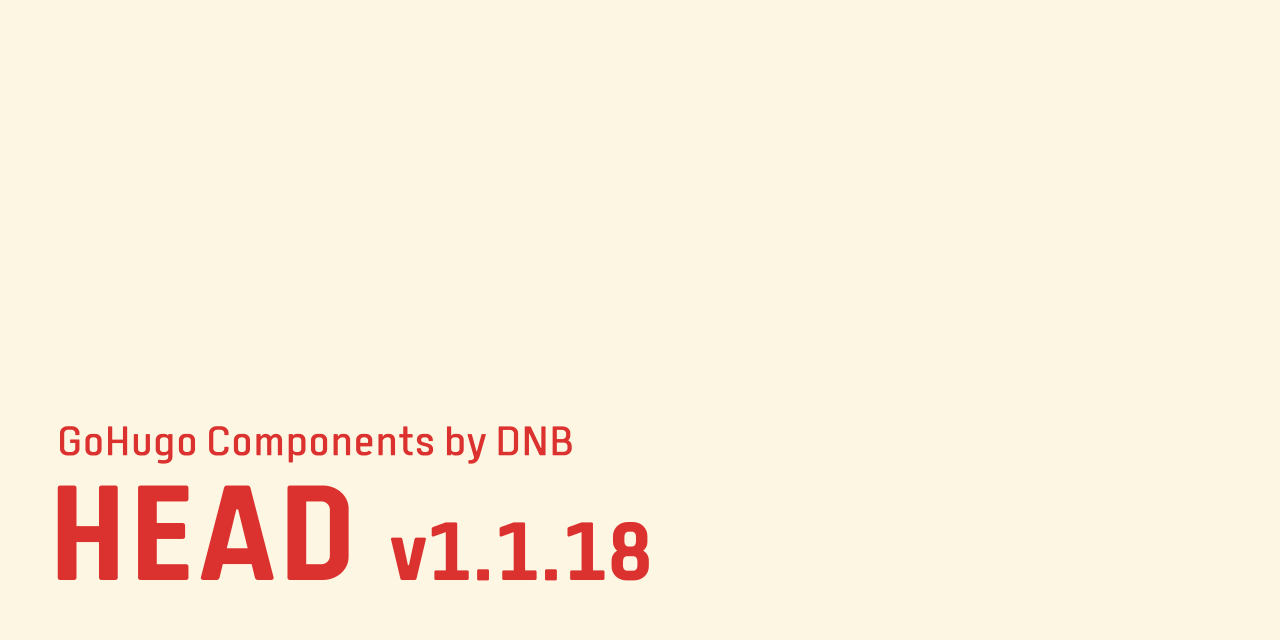
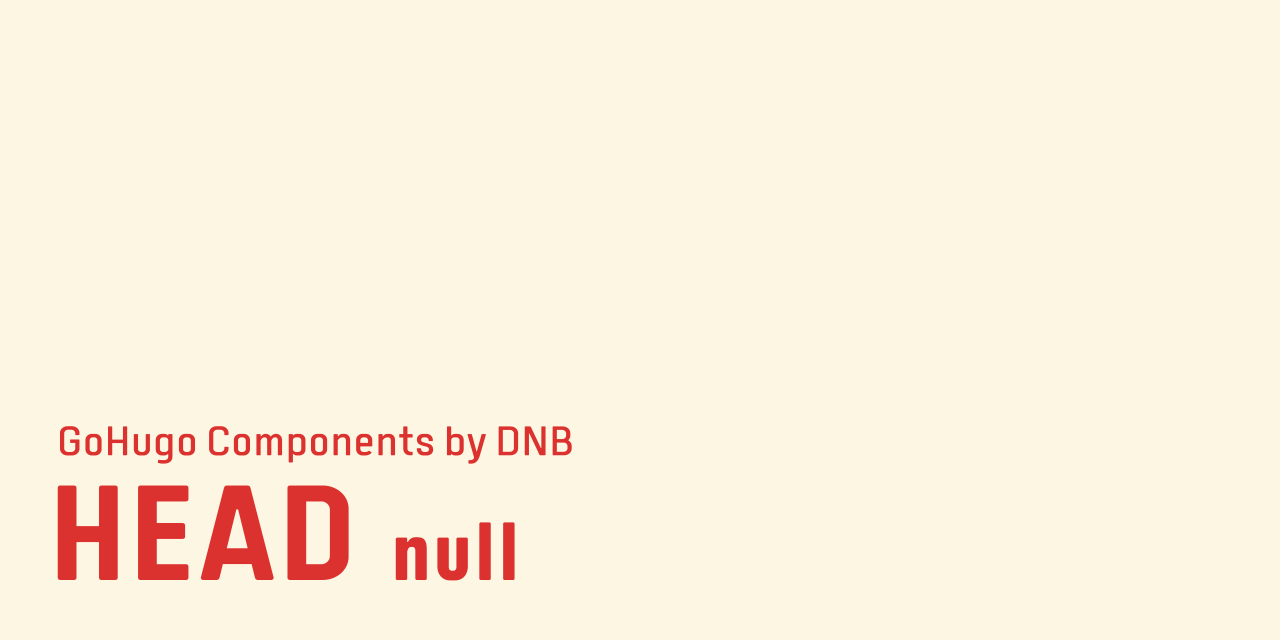
chore: update component header images and release data

Changed region(s): [[0.3125, 0.8125, 0.5312, 0.9062]]

diff --git a/content/components/hugo-head/index.md b/content/components/hugo-head/index.md
@@ -2,9 +2,9 @@
 title: Head
 linktitle: hugo-head
 summary: ""
-date: 2022-07-27T21:25:17+07:00
+date: 2023-06-30T17:31:25+07:00
 publishDate: 2022-07-27T21:25:17+07:00
-lastmod: 2023-04-16T15:54:51+07:00
+lastmod: 2023-06-30T17:31:32+07:00
 resources:
   - src: header-card.png
 categories:
@@ -33,7 +33,7 @@ If you want to learn about all that is possible in the `<head>` tag then have a 
 
 ```go-html-template
 <head>
-  {{ partial "head.html" . }}
+ {{ partial "head.html" . }}
 </head>
 ```
 
@@ -48,9 +48,9 @@ viewport = "width=device-width, initial-scale=1"
 nobase = false
 ```
 
-*   `charset`: Sets the global charset for the page. Do not set or change this if you have no reason for it. UTF8 is the proper way to encode your content. If your content (language, encoding) is located in a multibyte region this might change to UTF16 or UTF32.
-*   `nobase`: Use the websites BaseURL as base tag. This means all relative links will be based on this URL. Depending on your way of writing markup this might be useful to fix local links and references. If you keep this setting out of your configuration then the base-tag will be set to your BaseURL setting. Set it to true and no `base` tag will be used, all references on any page will be based on that pages URL.
-*   `viewport`: This is a tag that defines how to display the website on various devices and with what setup. If you don't know about this, then keep it out of your config and the best default setting will be used.
+* `charset`: Sets the global charset for the page. Do not set or change this if you have no reason for it. UTF8 is the proper way to encode your content. If your content (language, encoding) is located in a multibyte region this might change to UTF16 or UTF32.
+* `nobase`: Use the websites BaseURL as base tag. This means all relative links will be based on this URL. Depending on your way of writing markup this might be useful to fix local links and references. If you keep this setting out of your configuration then the base-tag will be set to your BaseURL setting. Set it to true and no `base` tag will be used, all references on any page will be based on that pages URL.
+* `viewport`: This is a tag that defines how to display the website on various devices and with what setup. If you don't know about this, then keep it out of your config and the best default setting will be used.
 
 ## `title` and `description` generation
 
@@ -66,9 +66,9 @@ The title generation is able to add a "(page n)" to the title on list pages if y
 ```go-html-template
 {{- $paginator := dict -}}
 {{- if eq "home" .Kind -}}
-  {{- $paginator = $.Paginate (where site.RegularPages "Type" "in" site.Params.mainSections) -}}
+ {{- $paginator = $.Paginate (where site.RegularPages "Type" "in" site.Params.mainSections) -}}
 {{- else if .IsNode -}}
-  {{- $paginator = $.Paginator -}}
+ {{- $paginator = $.Paginator -}}
 {{- end -}}
 {{- .Scratch.Set "paginator" $paginator -}}
 ```
@@ -184,27 +184,27 @@ placename = ""
 `hugo-head` implements template hooks via [`hugo-hooks`](https://github.com/davidsneighbour/hugo-hooks) and provides the following hooks:
 
 {{< b5/div class="table--hooks" >}}
-| Hook                         | Description                                                                                                         |
-| ---------------------------- | :------------------------------------------------------------------------------------------------------------------ |
-| head-init                    | hooks in after the opening `head` tag. Do not open this to output anything. Just to initialise any of your plugins. |
-| head-start                   | hooks in after the initial first tags that belong at the beginning of your `head` section.                          |
-| head-post-speed-optimisation |                                                                                                                     |
-| head-post-description        |                                                                                                                     |
-| head-post-author             |                                                                                                                     |
-| head-pre-css                 | hooks in before the stylesheets are printed.                                                                        |
-| head-post-css                | hooks in after the stylesheets are printed.                                                                         |
-| head-post-translations       |                                                                                                                     |
-| head-post-seo                |                                                                                                                     |
-| head-post-series             |                                                                                                                     |
-| head-post-social             |                                                                                                                     |
-| head-post-opensearch         |                                                                                                                     |
-| head-post-pwa                |                                                                                                                     |
-| head-post-humans             |                                                                                                                     |
-| head-post-alternates         |                                                                                                                     |
-| head-post-verification       |                                                                                                                     |
-| head-end                     | hooks in at the end of the `head` right before the closing tag.                                                     |
+| Hook | Description |
+| --- | :--- |
+| head-init | hooks in after the opening `head` tag. Do not open this to output anything. Just to initialise any of your plugins. |
+| head-start | hooks in after the initial first tags that belong at the beginning of your `head` section. |
+| head-post-speed-optimisation | |
+| head-post-description | |
+| head-post-author | |
+| head-pre-css | hooks in before the stylesheets are printed. |
+| head-post-css | hooks in after the stylesheets are printed. |
+| head-post-translations | |
+| head-post-seo | |
+| head-post-series | |
+| head-post-social | |
+| head-post-opensearch | |
+| head-post-pwa | |
+| head-post-humans | |
+| head-post-alternates | |
+| head-post-verification | |
+| head-end | hooks in at the end of the `head` right before the closing tag. |
 {{< / b5/div >}}
 
 ## Sites and Projects using `hugo-head`
 
-*   [Kollitsch.dev](https://kollitsch.dev)
+* [Kollitsch.dev](https://kollitsch.dev)
